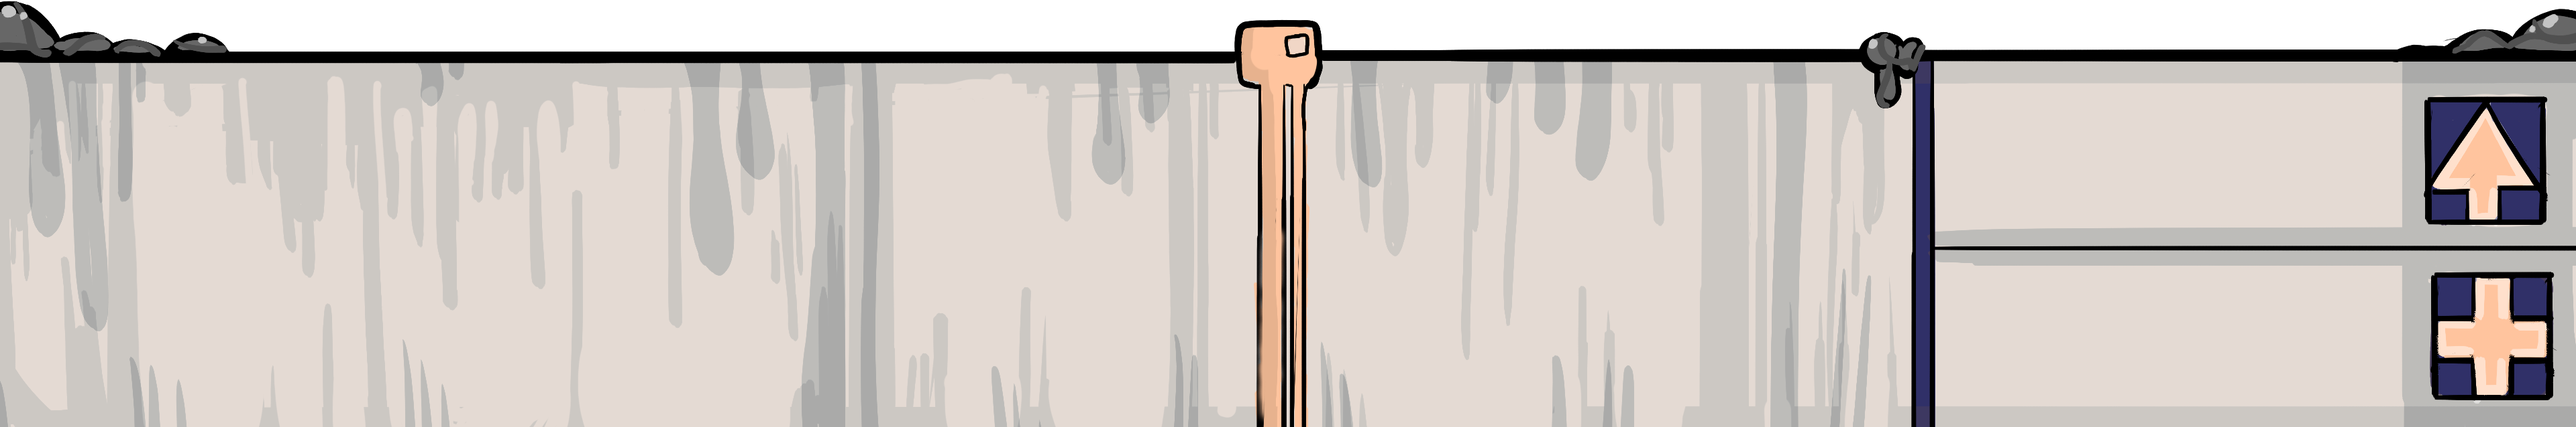
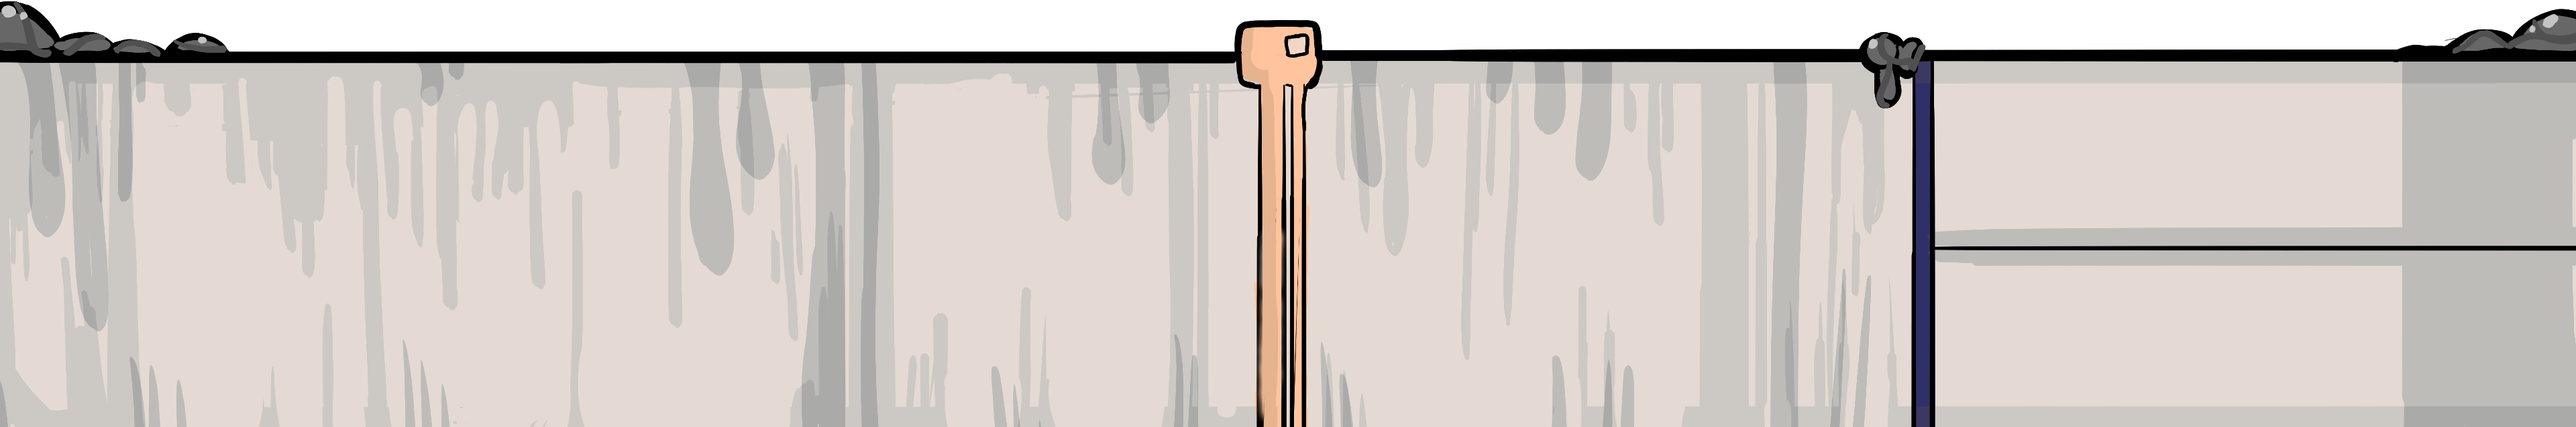
Make buttons nicer, refactor AnimationController

Changed region(s): [[0.9375, 0.6254, 1.0, 0.953], [0.9375, 0.2085, 1.0, 0.5361]]

diff --git a/Assets/Scripts/Controllers/CitybuildingScene/AnimationController.cs b/Assets/Scripts/Controllers/CitybuildingScene/AnimationController.cs
@@ -5,30 +5,26 @@ namespace Controllers.CitybuildingScene
     public class AnimationController : MonoBehaviour
     {
         [SerializeField] private Animation buildingShop;
-        // [SerializeField] private Animation notification;
-        //private bool notificationActivated;
         private bool shopActivated = false;
 
-        // private void Start()
-        // {
-        //     ToggleNotificationVisibility();
-        // }
+        private void PlayShow()
+        {
+            buildingShop["ShowShop"].time = 0;
+            buildingShop["ShowShop"].speed = 1;
+            buildingShop.Play("ShowShop");
+        }
+
+        private void PlayHide()
+        {
+            buildingShop["ShowShop"].time = buildingShop["ShowShop"].length;
+            buildingShop["ShowShop"].speed = -1;
+            buildingShop.Play("ShowShop");
+        }
 
         public void ToggleShopVisibility()
         {
-            if (!shopActivated)
-            {
-                buildingShop["ShowShop"].time = 0;
-                buildingShop["ShowShop"].speed = 1;
-                buildingShop.Play("ShowShop");
-            }
-            else
-            {
-                // Play backwards
-                buildingShop["ShowShop"].time = buildingShop["ShowShop"].length;
-                buildingShop["ShowShop"].speed = -1;
-                buildingShop.Play("ShowShop");
-            }
+            if (!shopActivated) PlayShow();
+            else PlayHide();
         
             shopActivated = !shopActivated;
         }
@@ -37,34 +33,10 @@ namespace Controllers.CitybuildingScene
         {
             if(shopActivated == visible) return;
             
-            if (visible)
-            {
-                // Show
-                buildingShop["ShowShop"].time = 0;
-                buildingShop["ShowShop"].speed = 1;
-                buildingShop.Play("ShowShop");
-            }
-            else
-            {
-                // Hide
-                buildingShop["ShowShop"].time = buildingShop["ShowShop"].length;
-                buildingShop["ShowShop"].speed = -1;
-                buildingShop.Play("ShowShop");
-            }
+            if (visible) PlayShow();
+            else PlayHide();
 
             shopActivated = visible;
         }
-
-        // public void ToggleNotificationVisibility()
-        // {
-        //     if (!notificationActivated)
-        //     {
-        //         notification["ShowNotification"].time = 0;
-        //         notification["ShowNotification"].speed = 1;
-        //         notification.Play("ShowNotification");
-        //     }
-        //
-        //     notificationActivated = !notificationActivated;
-        // }
     }
 }

diff --git a/Assets/Scripts/Controllers/CitybuildingScene/BuildingPanelController.cs b/Assets/Scripts/Controllers/CitybuildingScene/BuildingPanelController.cs
@@ -46,10 +46,10 @@ public class BuildingPanelController : MonoBehaviour
             (acc, upgrade) => upgrade.Description is not null ? acc + upgrade.Description + "\n" : "");
         nextUpgradeText.text = building.NextUpgrade is null ? "No upgrades available" : building.NextUpgrade.Description;
         
-        upgradeButton.enabled = building.CanBeUpgraded;
+        upgradeButton.interactable = building.CanBeUpgraded;
 
         var isASchool = building is DroneSchool or FighterSchool or ShooterSchool or RobotSchool;
-        buyDefenderButton.gameObject.SetActive(isASchool);
+        buyDefenderButton.interactable = isASchool;
     }
 
     public void UpgradeButtonClicked()
